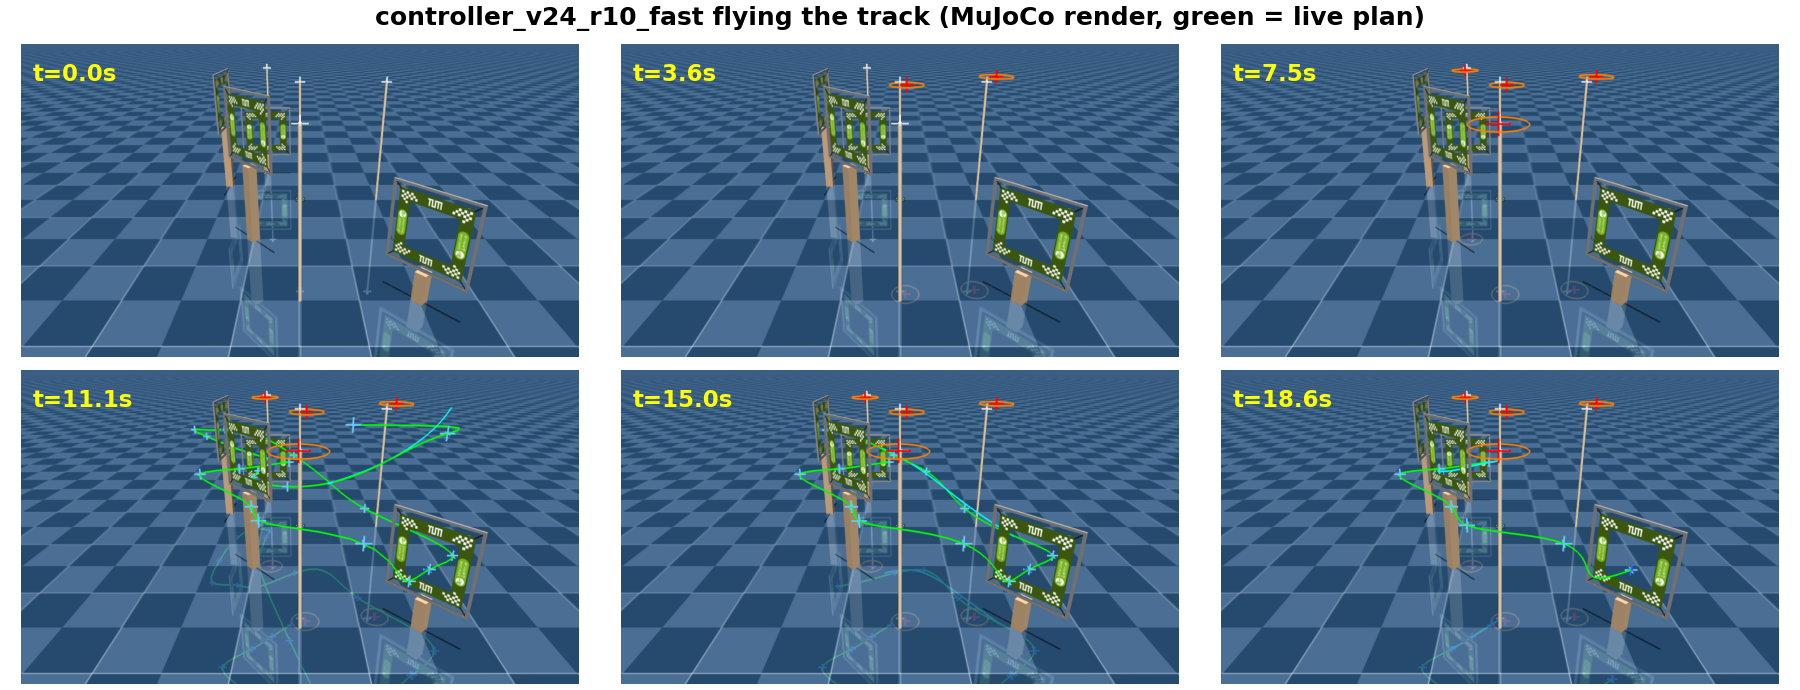
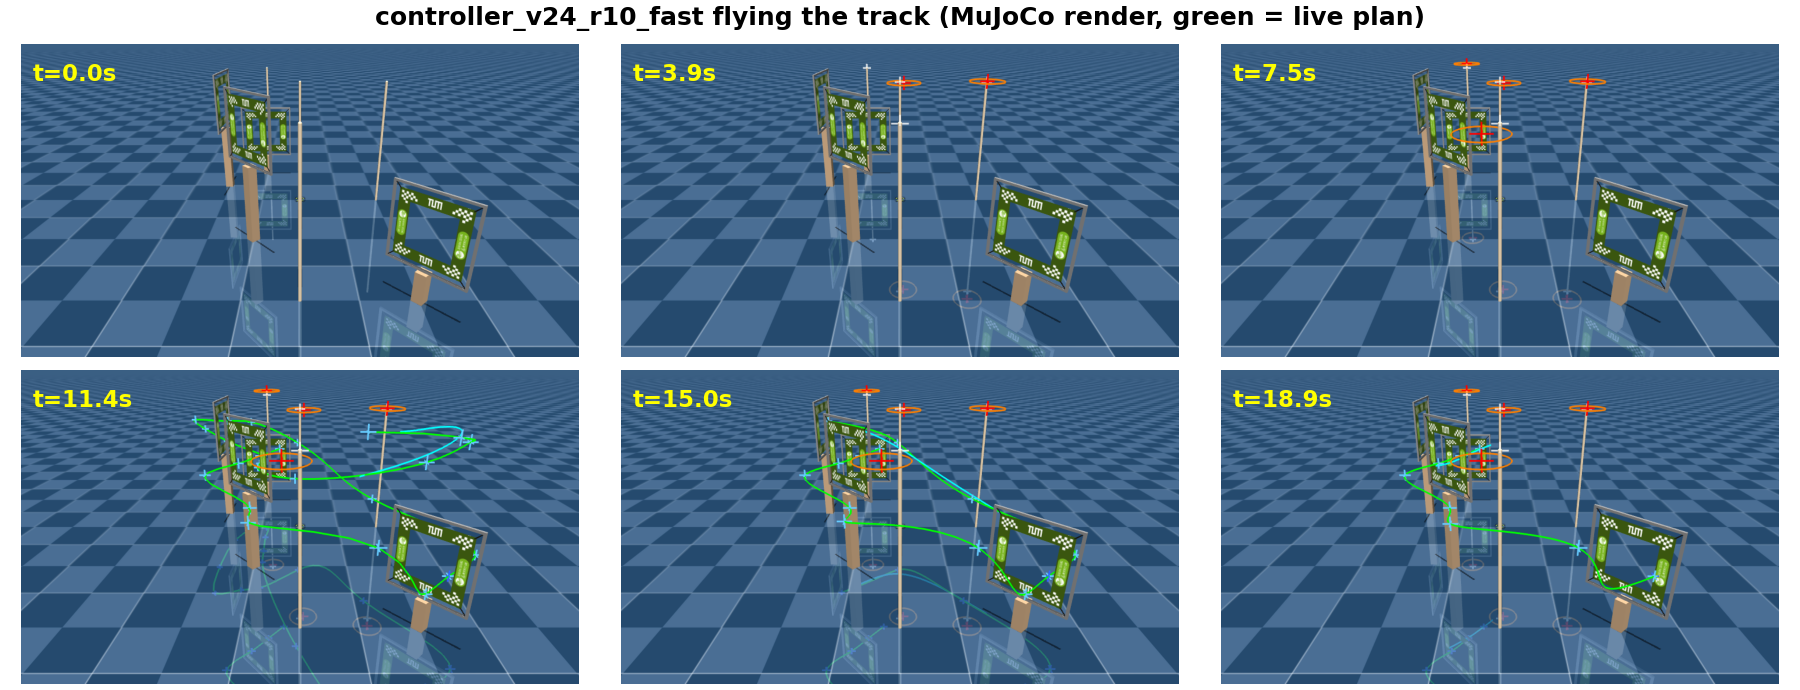
Update flight report figures and adjust 3D plot dimensions for better visualization

diff --git a/scripts/flight_report.py b/scripts/flight_report.py
@@ -187,7 +187,7 @@ def _plot_3d(traj, title, path):
     k = int(np.argmax(z > 0.2)) if (z > 0.2).any() else 0  # drop the ground-level takeoff climb
     p, sp = p[k:], sp[k:]
     norm = plt.Normalize(0, traj["spd"].max())
-    fig = plt.figure(figsize=(8, 7))
+    fig = plt.figure(figsize=(5.5, 4.5))
     ax = fig.add_subplot(111, projection="3d")
     segs = np.stack([p[:-1], p[1:]], axis=1)
     lc = Line3DCollection(segs, cmap=CMAP, norm=norm, linewidth=2.4)
